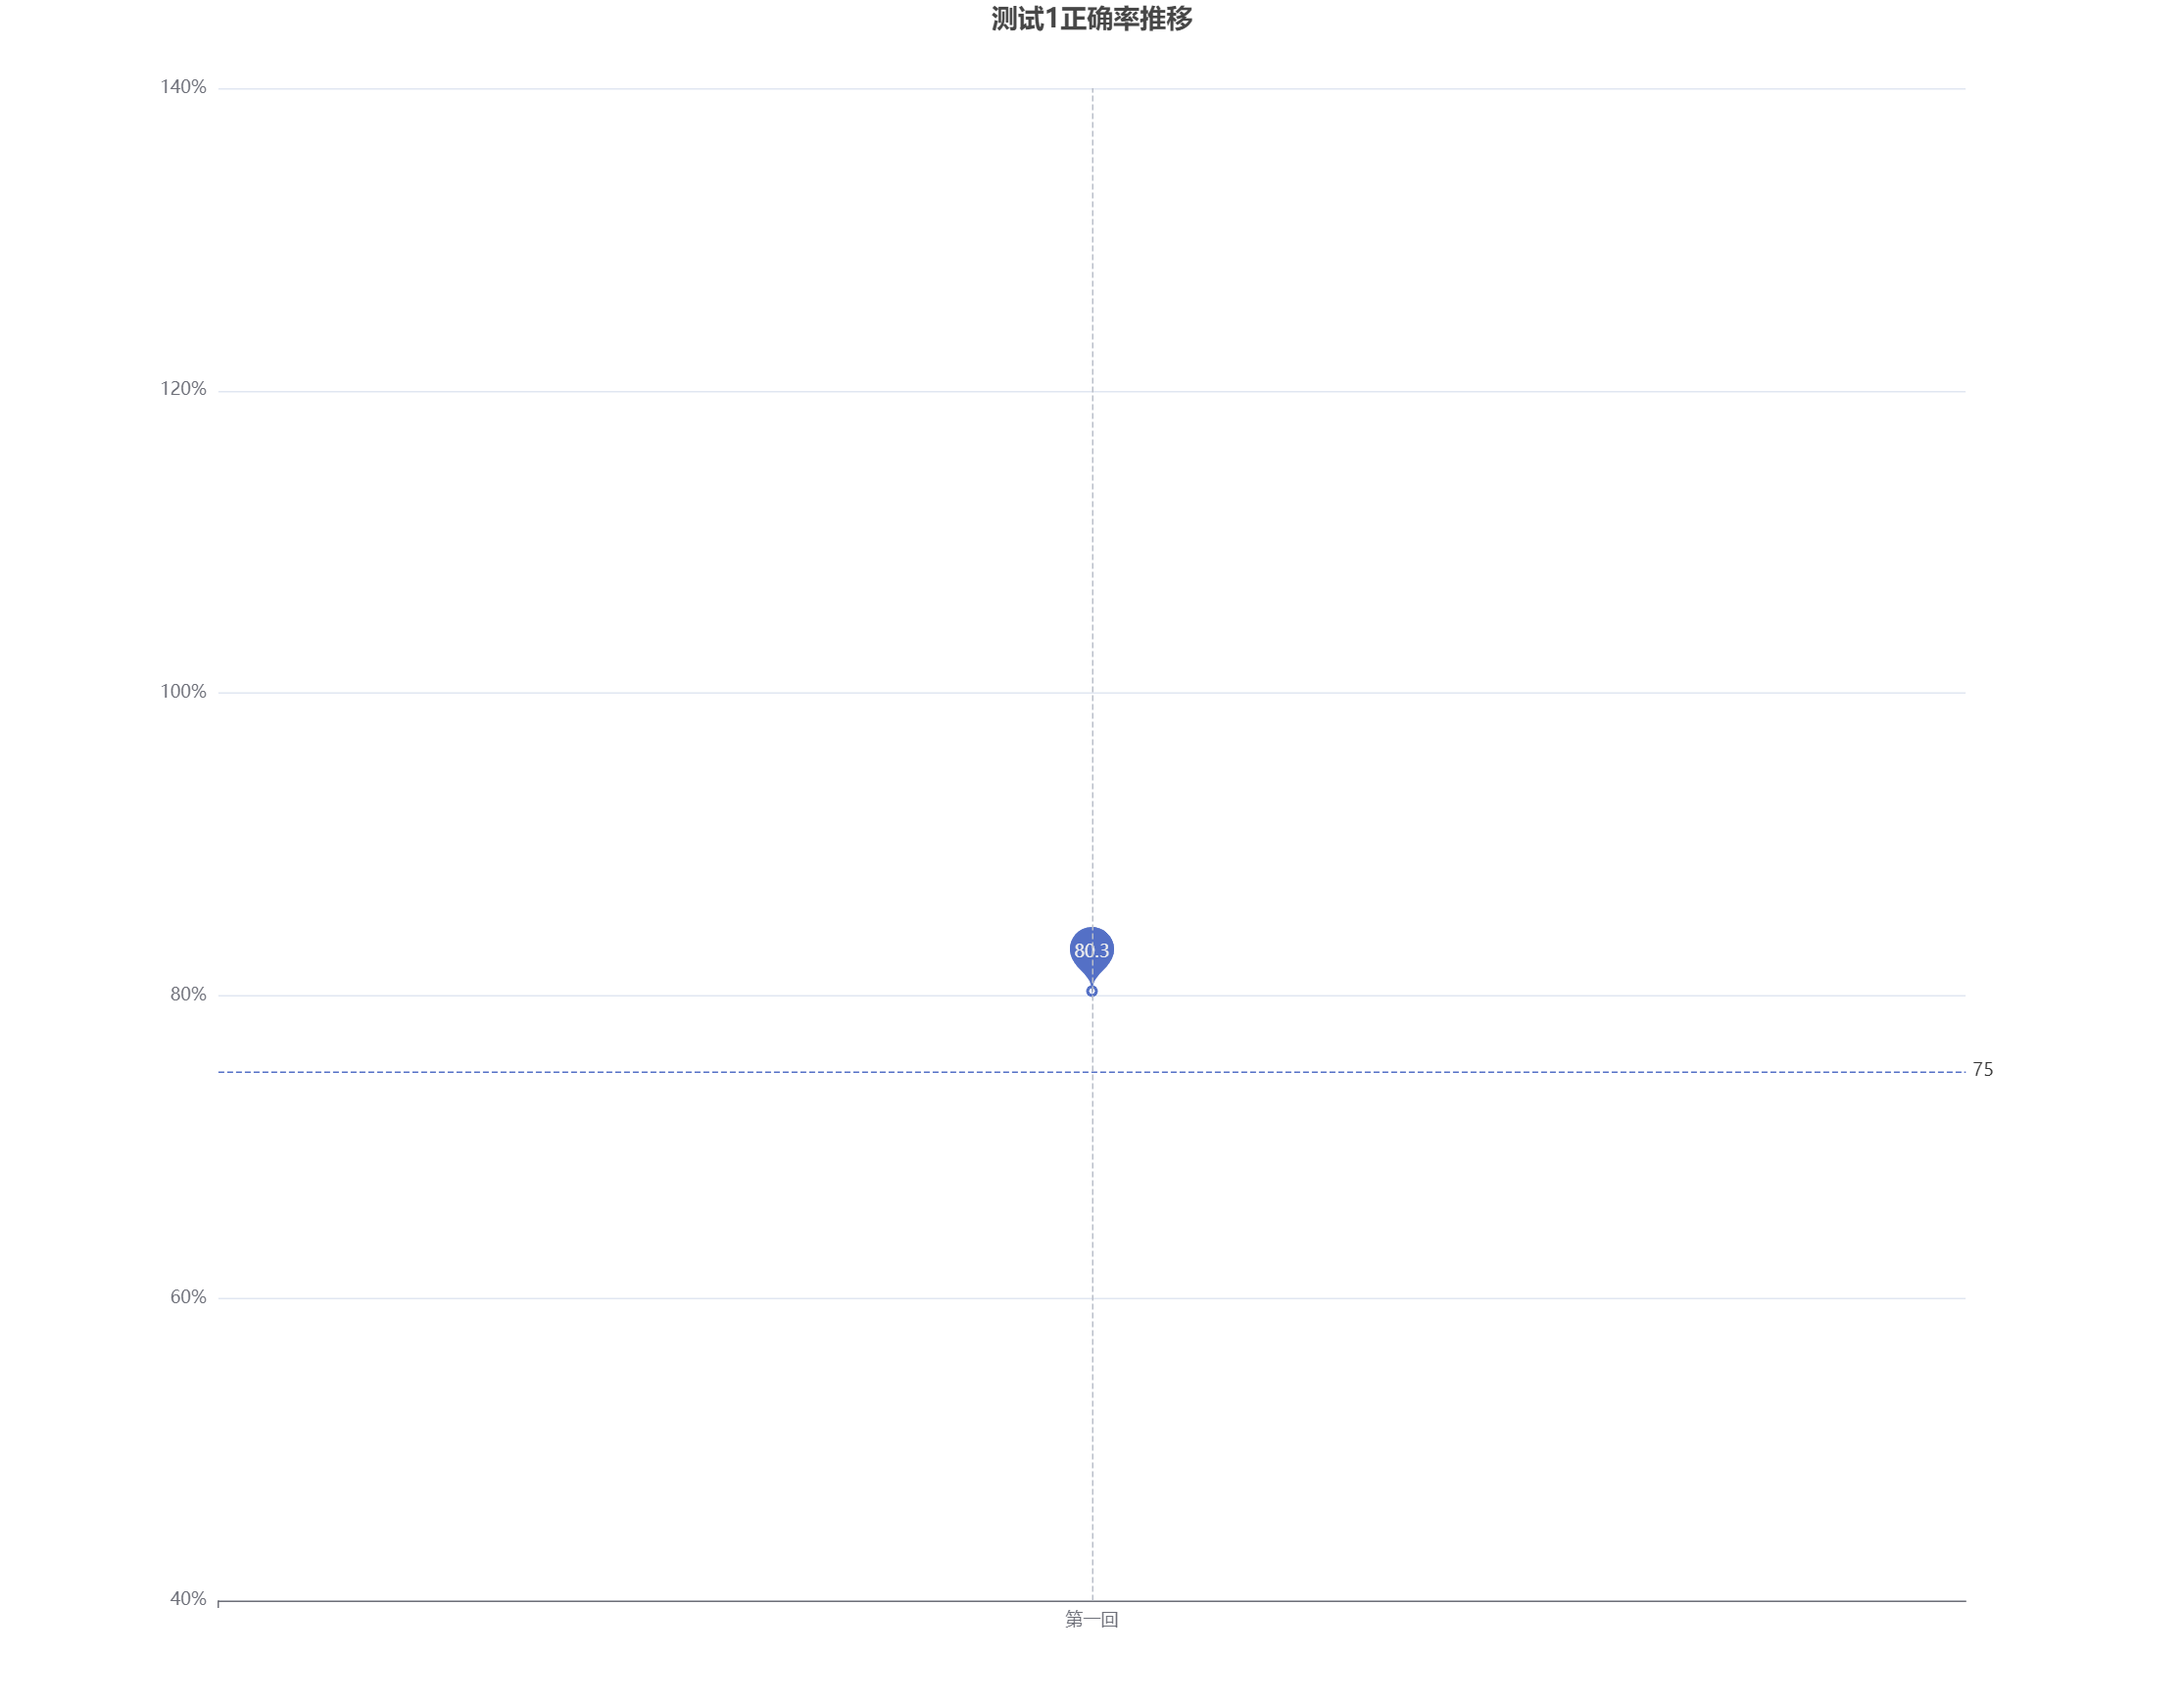
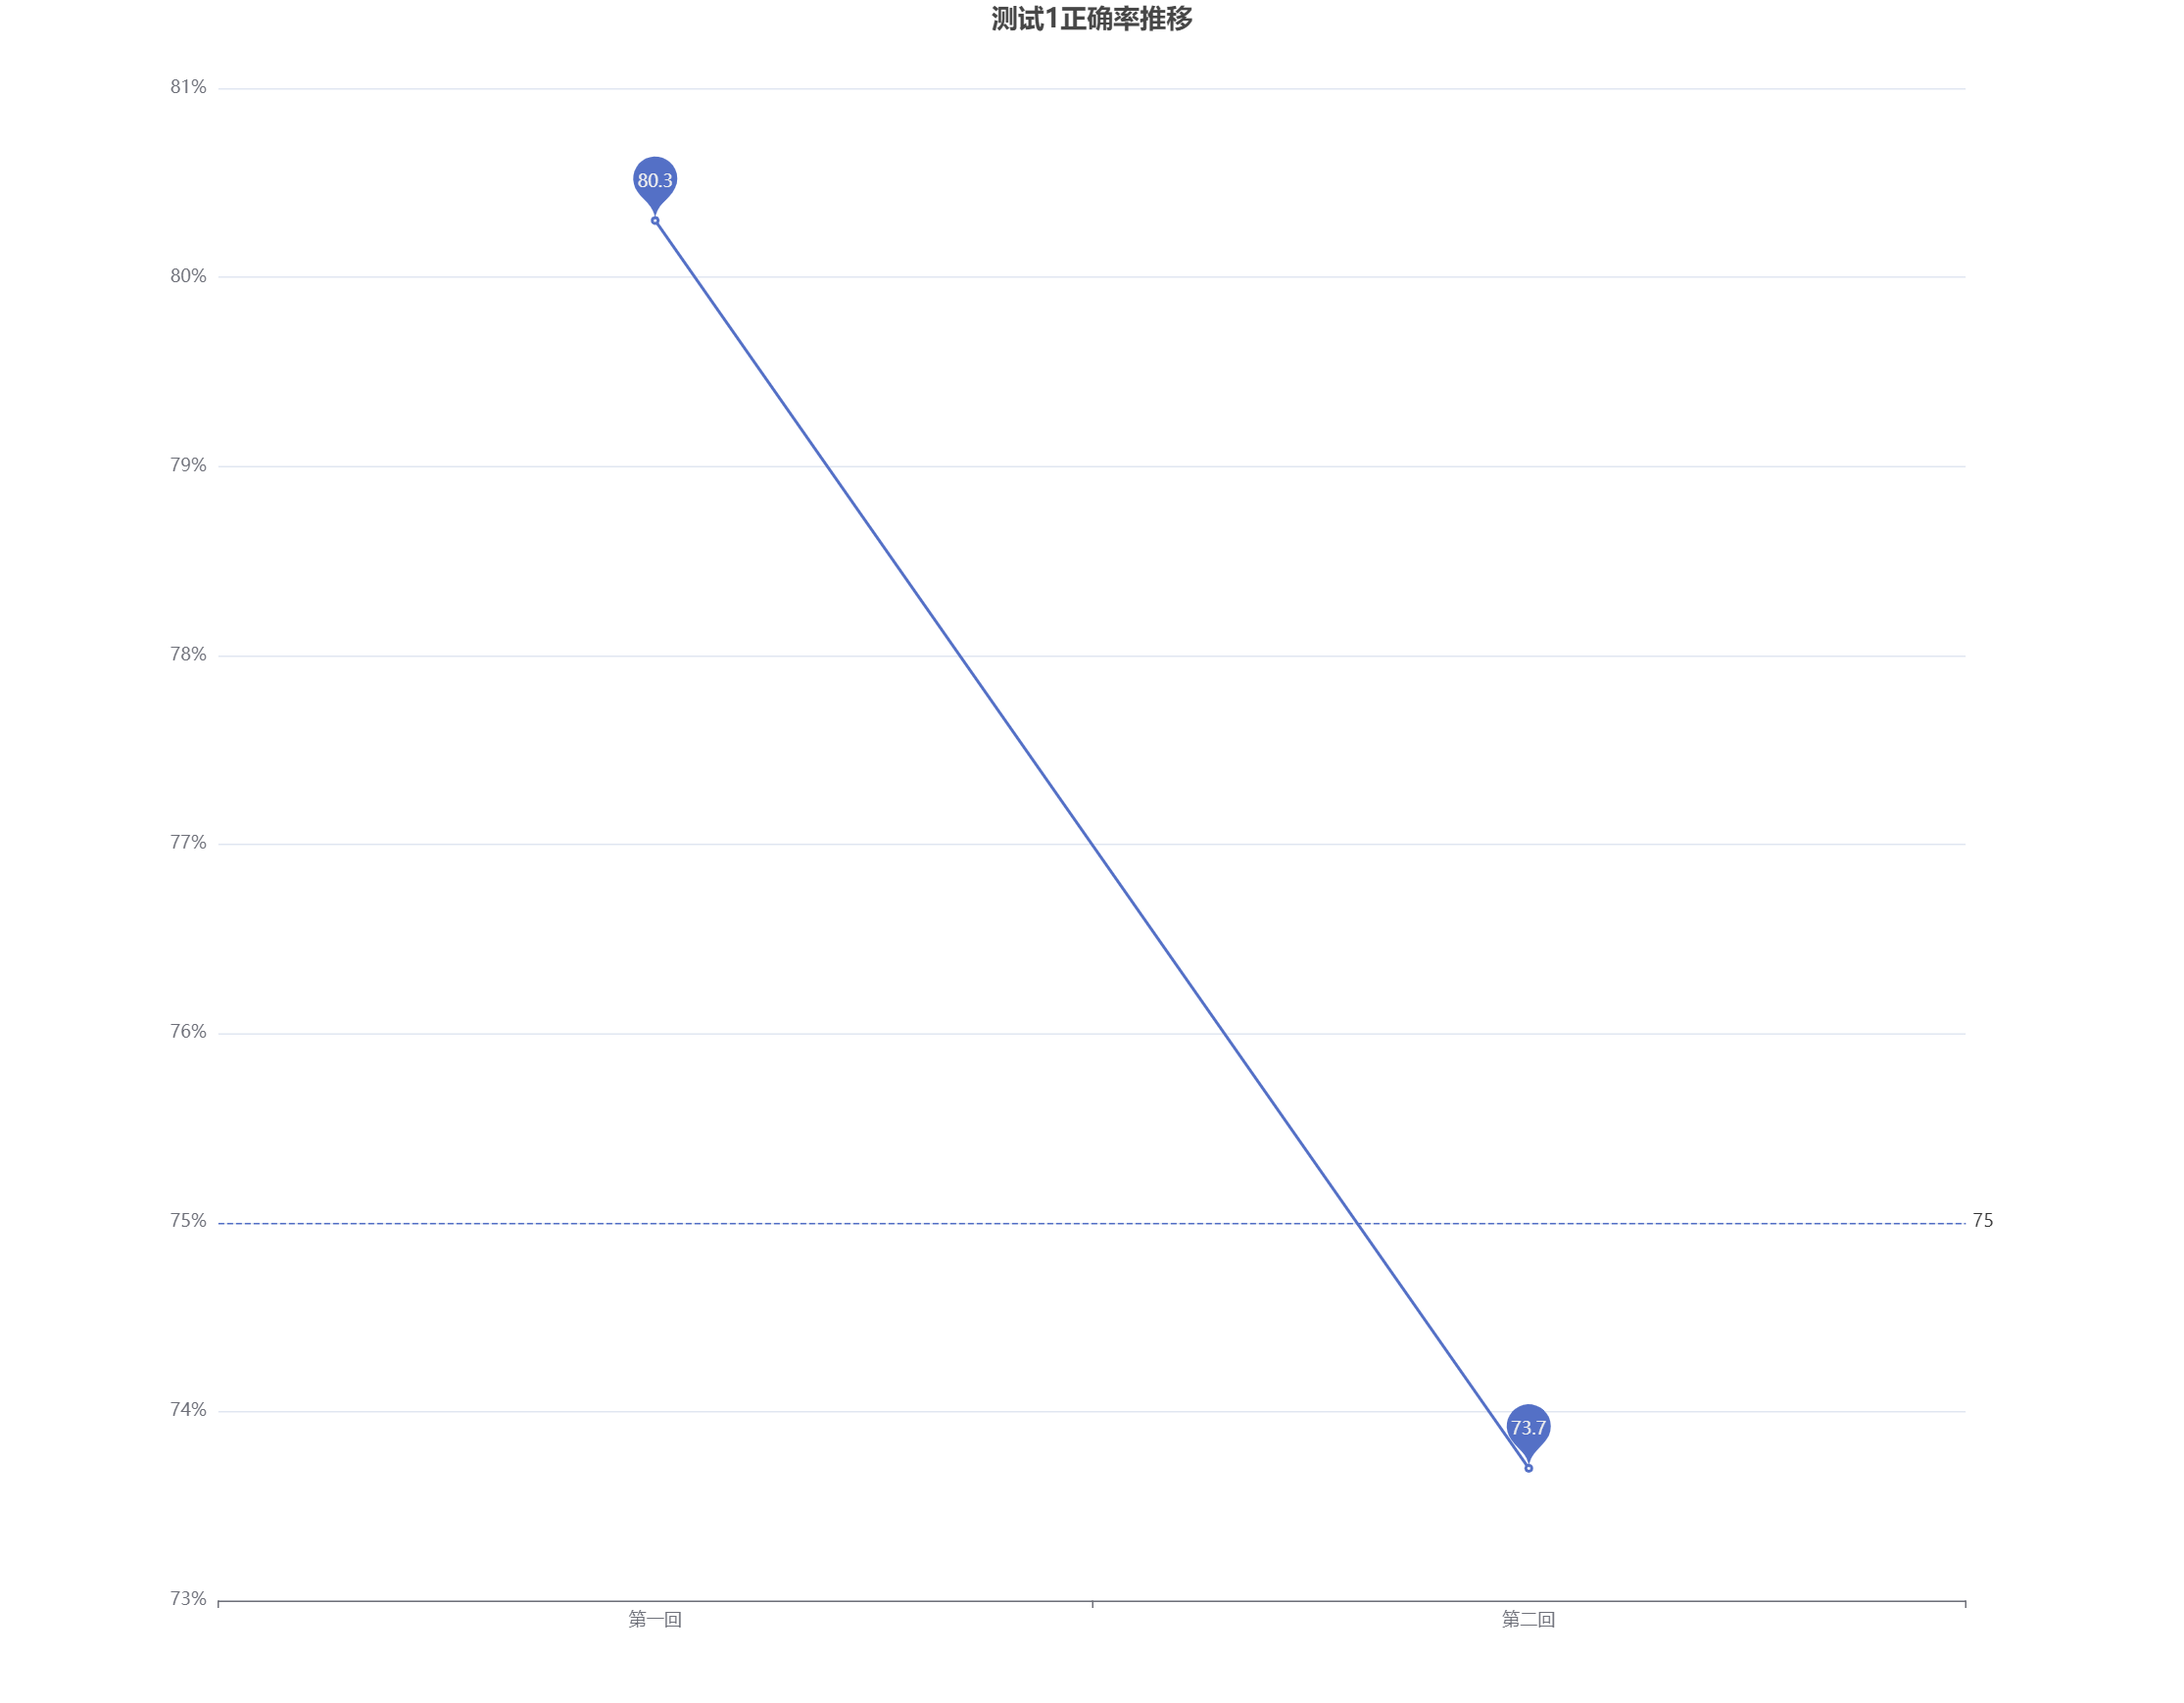
[update] up new test result

Changed region(s): [[0.681, 0.8078, 0.712, 0.87], [0.4953, 0.5282, 0.5262, 0.5903], [0.2786, 0.0932, 0.3096, 0.1243]]

diff --git a/src/result.js b/src/result.js
@@ -7,21 +7,34 @@ option = {
     {
       dimensions: ["number", "frequent"],
       source: [
-        ["07", 1],
-        ["10", 1],
+        ["07", 2],
+        ["08", 2],
+        ["10", 2],
         ["12", 1],
+        ["17", 1],
         ["18", 1],
+        ["19", 1],
+        ["22", 1],
         ["23", 1],
+        ["27", 1],
+        ["29", 1],
+        ["30", 1],
+        ["36", 1],
         ["39", 1],
         ["41", 1],
-        ["55", 1],
+        ["44", 1],
+        ["46", 1],
+        ["51", 1],
+        ["52", 1],
+        ["55", 2],
         ["58", 1],
-        ["61", 1],
+        ["59", 1],
+        ["61", 2],
         ["62", 1],
-        ["63", 1],
+        ["63", 2],
         ["67", 1],
-        ["68", 1],
-        ["73", 1],
+        ["68", 2],
+        ["73", 2],
       ],
     },
     {

diff --git a/src/rate.js b/src/rate.js
@@ -8,7 +8,7 @@ option = {
   },
   xAxis: {
     type: "category",
-    data: ["第一回"],
+    data: ["第一回", "第二回"],
   },
   yAxis: {
     type: "value",
@@ -19,7 +19,7 @@ option = {
   },
   series: [
     {
-      data: [80.3],
+      data: [80.3, 73.7],
       type: "line",
       markLine: {
         symbol: ["none", "none"],
